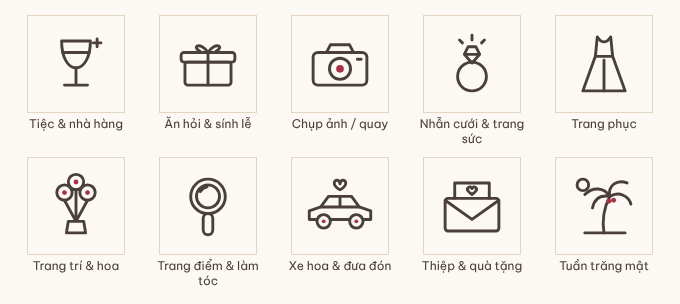
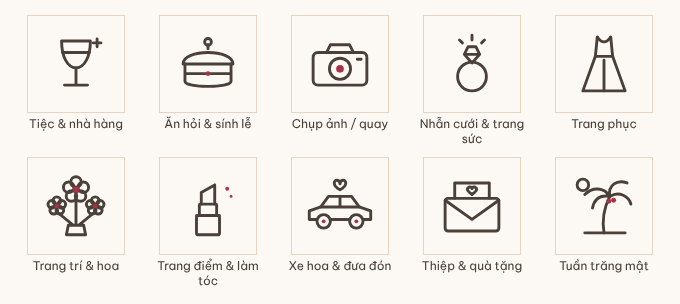
[T-066][T-068] Sửa tooltip ô nhỏ; vẽ lại tráp tròn, thỏi son, bó hoa nhiều cánh
Claude-Session: https://claude.ai/code/session_01UGMXKqieLcV2K1vphWF5EZ

Changed region(s): [[0.0618, 0.5625, 0.1544, 0.7993], [0.2779, 0.5625, 0.3397, 0.7993], [0.2471, 0.1184, 0.3706, 0.2961]]

diff --git a/src/vendorIllustrations.jsx b/src/vendorIllustrations.jsx
@@ -6,17 +6,27 @@ import { VENDOR_CATEGORIES } from './screens/VendorCtx.jsx';
 const ACCENT = { fill: 'var(--son-500)', stroke: 'none' };
 const A = (p) => <circle {...p} style={ACCENT} />;
 
+// Bông hoa năm cánh tròn quanh một nhuỵ
+const flower = (cx, cy, pr, R) => (<>
+  {[0, 1, 2, 3, 4].map((i) => {
+    const a = (i * 72 - 90) * Math.PI / 180;
+    return <circle key={i} cx={+(cx + R * Math.cos(a)).toFixed(1)} cy={+(cy + R * Math.sin(a)).toFixed(1)} r={pr} />;
+  })}
+  {A({ cx, cy, r: pr * 0.6 })}
+</>);
+
 const DRAW = {
   // Tiệc & nhà hàng: ly rượu
   venue: (<>
     <path d="M35 26H65C65 42 59 54 50 54C41 54 35 42 35 26Z" />
     <path d="M36 38H64M50 54V71M38 72H62M72 24V32M68 28H76" />
   </>),
-  // Ăn hỏi & sính lễ: tráp có nơ
+  // Ăn hỏi & sính lễ: tráp tròn có nắp
   ceremony: (<>
-    <rect x="26" y="48" width="48" height="24" rx="3" />
-    <rect x="22" y="38" width="56" height="10" rx="3" />
-    <path d="M50 38V72M50 38C42 26 32 32 42 37M50 38C58 26 68 32 58 37" />
+    <path d="M24 50C24 34 76 34 76 50Z" />
+    <path d="M26 50V68C26 75 74 75 74 68V50M26 60H74M50 34V30" />
+    <circle cx="50" cy="27" r="3.5" />
+    {A({ cx: 50, cy: 60, r: 2.5 })}
   </>),
   // Chụp ảnh / quay: máy ảnh
   photography: (<>
@@ -35,20 +45,17 @@ const DRAW = {
     <path d="M43 22L41 42L28 78H72L59 42L57 22" />
     <path d="M43 22Q50 32 57 22M41 42H59M50 46V78" />
   </>),
-  // Trang trí & hoa: bó hoa
+  // Trang trí & hoa: bó hoa nhiều cánh
   decor: (<>
-    <circle cx="38" cy="36" r="8" />
-    <circle cx="62" cy="36" r="8" />
-    <circle cx="50" cy="25" r="8" />
-    {A({ cx: 38, cy: 36, r: 2.5 })}{A({ cx: 62, cy: 36, r: 2.5 })}{A({ cx: 50, cy: 25, r: 2.5 })}
-    <path d="M38 44L50 66M62 44L50 66M50 33V66M42 66H58L60 78H40Z" />
+    {flower(50, 33, 5.5, 8)}{flower(30, 50, 4, 5.5)}{flower(70, 50, 4, 5.5)}
+    <path d="M50 44V68M30 56L47 70M70 56L53 70M42 70H58L60 80H40Z" />
   </>),
-  // Trang điểm & làm tóc: gương cầm tay
+  // Trang điểm & làm tóc: thỏi son
   makeup: (<>
-    <circle cx="50" cy="40" r="18" />
-    <circle cx="50" cy="40" r="12" />
-    <rect x="45" y="58" width="10" height="22" rx="5" />
-    <path d="M42 35Q44 31 49 30" />
+    <rect x="38" y="60" width="24" height="20" rx="2" />
+    <rect x="41" y="48" width="18" height="12" rx="1" />
+    <path d="M43 48V36L57 28V48M38 60H62" />
+    {A({ cx: 70, cy: 32, r: 2 })}{A({ cx: 74, cy: 40, r: 1.5 })}
   </>),
   // Xe hoa & đưa đón: xe có trái tim
   transport: (<>
@@ -97,7 +104,7 @@ export function VendorIllustration({ catId, chip = false, chipBottom = 6 }) {
   const label = illustrationLabel(catId);
   return (
     <span role="img" aria-label={label} title={chip ? undefined : label}
-      style={{ position: 'absolute', inset: 0, display: 'block', pointerEvents: 'none' }}>
+      style={{ position: 'absolute', inset: 0, display: 'block', pointerEvents: chip ? 'none' : 'auto' }}>
       <svg viewBox="0 0 100 100" width="100%" height="100%" aria-hidden="true" focusable="false"
         style={{ display: 'block', fill: 'none', stroke: 'var(--ink-700)', strokeWidth: 3, strokeLinecap: 'round', strokeLinejoin: 'round' }}>
         <circle cx="50" cy="50" r="44" style={{ fill: 'var(--paper)', stroke: 'none' }} />
